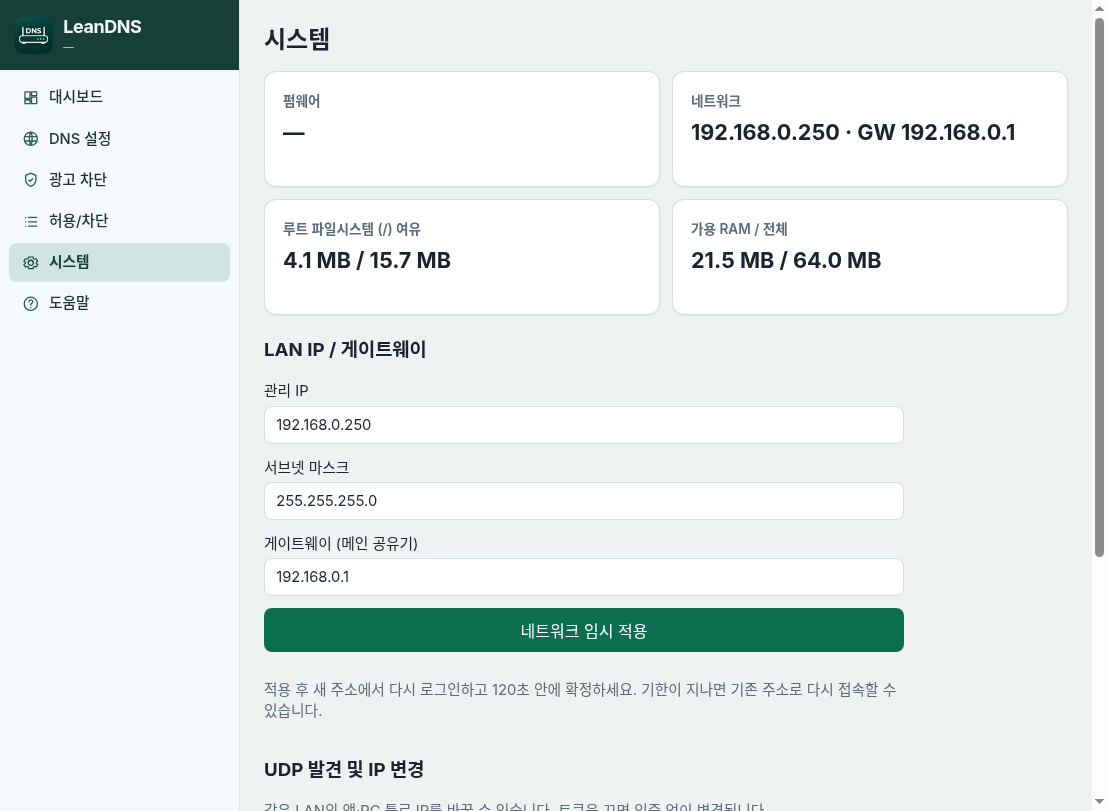
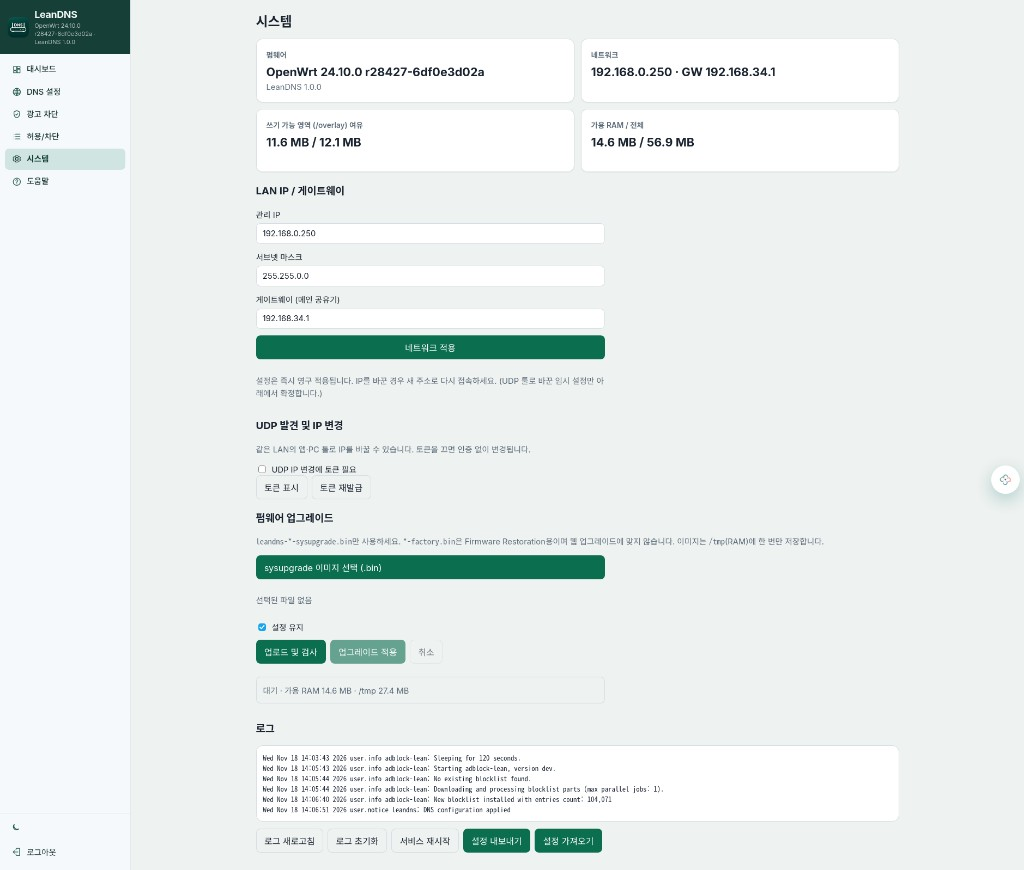
docs: 대시보드·시스템 스크린샷을 최신 UI로 갱신한다.

diff --git a/README.md b/README.md
@@ -42,7 +42,8 @@ DNS 상태·광고 차단·허용/차단 목록·LAN/UDP·펌웨어를 한국어
 
 ### 대시보드
 
-DNS·광고 차단 상태, RAM/Flash, **최근·오늘 차단 통계**를 한눈에 봅니다.  
+DNS·광고 차단 상태, RAM/Flash, 상위 DNS 요약과 함께  
+**최근·오늘 차단 통계**, 10분 추이 차트, **최근 차단 20개 도메인**을 한눈에 봅니다.  
 차단 집계는 `/tmp`(RAM)만 사용하며 재부팅 시 초기화됩니다.
 
 ![웹 UI — 대시보드](docs/images/web-dashboard.png)
@@ -61,8 +62,9 @@ adblock-lean Mini 목록 on/off, 수동 업데이트, 규칙 수를 확인합니
 
 ### 시스템
 
-LAN IP/게이트웨이 **즉시 영구 적용**, UDP 토큰·SET 허용, 로그·서비스,  
-그리고 **웹 펌웨어 업그레이드**를 합니다.
+펌웨어·네트워크·저장공간·RAM 상태와 함께  
+LAN IP/게이트웨이 **즉시 영구 적용**, UDP 토큰·SET 허용,  
+로그·서비스 재시작, 설정 내보내기/가져오기, **웹 펌웨어 업그레이드**를 합니다.
 
 - 업로드는 `leandns-*-sysupgrade.bin`만 허용합니다 (`*-factory.bin`은 Firmware Restoration용).
 - 이미지는 `/tmp`(RAM)에 한 번만 두고, 검사 통과 후 명시 확인으로 적용합니다.
